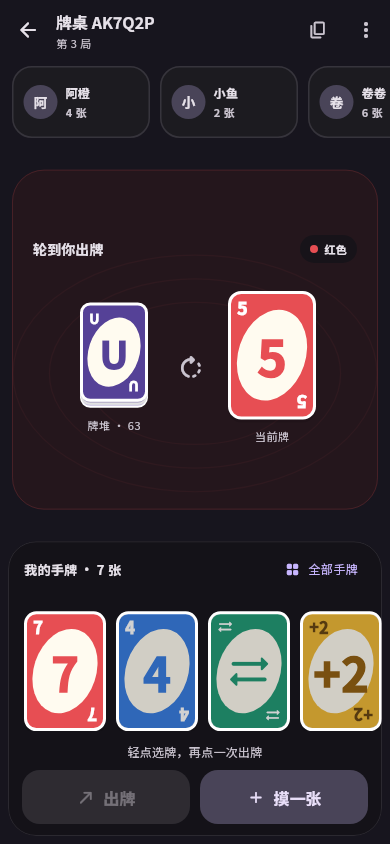
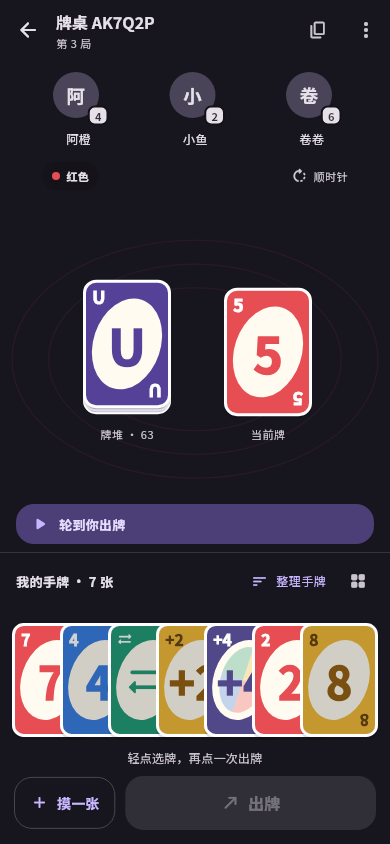
docs: refresh table layout previews and acceptance checks

diff --git a/docs/ui.md b/docs/ui.md
@@ -1,22 +1,30 @@
 # 界面与动画
 
-<img src="images/table-motion.gif" width="280" alt="牌桌交互动效">
-<img src="images/table-dark.png" width="280" alt="深色牌桌">
+<img src="images/table.png" width="250" alt="浅色牌桌">
+<img src="images/table-motion.gif" width="250" alt="整理、选牌和换回合动效">
+<img src="images/table-dark.png" width="250" alt="深色牌桌">
 
 以上预览由 Flutter 界面以离线测试状态渲染。
 
-手牌使用完整显示的横向牌列，牌宽和间距固定，不重叠、不旋转。选中只抬高位置并加描边，
-再次点击或按「出牌」确认。屏幕内的牌不会因选中而横移；从「全部手牌」选到屏幕外的牌时，
-牌列才滚动到相应位置。同一局中保留现有手牌顺序，新摸到的牌追加到末尾。
+布局参考 [Unour 网页端](https://csac.chat/) 的玩家、牌堆和手牌位置关系，
+配色、牌面和控件继续使用应用的 Material You 风格。
 
-牌桌从上至下分为玩家列表、当前牌区、手牌和操作区。玩家列表会滚动到当前出牌者，
-桌面底色随有效颜色变化。小屏采用较小的牌面；较大字体、额外的质疑按钮和 UNO 窗口
-需要更多空间时，可纵向滚动。
+对手头像与剩余牌数排列在顶部，人数少时均匀分布，人数多时横向滚动。
+中央并排放置牌堆和当前牌，颜色与方向放在上方，回合提示放在手牌上方。
+桌面用淡色线条连接各区域，摸牌在左、出牌在右。UNO 按钮浮在中央，避免挤动手牌和操作区。
+
+手牌等距横排，牌面保持竖直、局部重叠；390 宽度下可以同时看到七张牌，
+少量手牌居中，更多手牌横向滚动。选中只抬高并完整露出该牌，不改变牌宽、间距或邻牌位置，
+再次点击或按「出牌」确认。选到屏幕外的牌时，只滚动到能完整看到它的位置。
+同一局中保留原有手牌顺序，新摸到的牌追加到末尾；「整理手牌」按颜色、数字与类型排列，
+并可切回原始顺序。网格按钮打开全部手牌，沿用当前整理方式。
+
+小屏采用较小的牌面；较大字体或额外的过牌、质疑按钮需要更多空间时，可纵向滚动。
 
 ## 动画
 
 - 入口分批淡入、滑入并轻微回弹；按钮按压后回弹。
-- 手牌选中抬起，摸牌滑入，出牌后邻牌平滑补位。
+- 手牌选中抬起，摸牌滑入，出牌后邻牌平滑补位，整理时平滑换位。
 - 当前牌以滑入、缩放和回弹切换；回合、手牌数量和出牌方向分别过渡。
 - 结算播放一次纸屑动画，结束后停止。
 
@@ -26,9 +34,11 @@
 
 ## 验证
 
-组件测试覆盖手牌间距、选中时宽度和位置不变、选中牌不被裁切、状态更新不打乱顺序、
-增减牌、屏幕外选牌、相同牌面不重播、退场牌不可操作，以及减少动态效果。
-布局测试覆盖 320×640、十位玩家、40 张手牌、1.6 倍字体和深浅主题。
+静态检查与 41 项测试通过。组件测试覆盖固定间距、选中时牌宽和邻牌位置不变、
+选中牌不被裁切、状态更新不打乱顺序、增减牌、整理与恢复、屏幕外选牌、相同牌面不重播、
+退场牌不可操作，以及动画途中开启减少动态效果。
+布局测试覆盖七张手牌可见、UNO 不挤动手牌、观战布局，以及 320×640、十位玩家、
+40 张手牌、1.6 倍字体和深浅主题。
 
 另已渲染检查首页、牌桌、选牌、设置、登录、加入牌桌、账户和结算页面。
 真实手机上的流畅度、触摸体验和真实牌局仍按 [验收清单](acceptance.md) 手动检查。

diff --git a/docs/acceptance.md b/docs/acceptance.md
@@ -44,7 +44,9 @@ Android keystore、iOS Team 和签名；开发签名不用于商店发行。
 - [ ] 飞行模式、弱网、请求超时、旧版本冲突、连续点击不重复出牌。
 - [ ] 房间 token 轮换后旧设备重新加入；账户失效要求重新登录。
 - [ ] 320×640 手机、十人房间、40+ 手牌、较大字体、深浅主题。
-- [ ] 手牌整齐横排；选中不改变牌宽、不遮挡邻牌、不让可见牌横移；屏幕外选牌自动滚动。
+- [ ] 手牌固定间距、竖直横排；选中完整露出牌面，不改变牌宽或邻牌位置；屏幕外选牌自动滚动。
+- [ ] 整理手牌按颜色与数字／类型排列，保留选中牌；可恢复原始顺序，全部手牌网格顺序一致。
+- [ ] 对手头像和剩余牌数清楚，多人可横向滚动；UNO 提示不挤动手牌及底部按钮。
 - [ ] 系统减少动态效果、单独关闭音效和轻震动、前后台切换。
 - [ ] 摸牌、出牌、换回合及结算动画流畅；普通状态轮询不重播动画。
 - [ ] Android 安装包真机启动，iOS Xcode 构建及真机启动。
@@ -74,5 +76,8 @@ Android 使用开发签名，无需仓库 secrets；iOS 不使用签名证书。
 同日 UI 改版提交 `a1ec399e32ff0229f541a120192e176861f65638` 的静态检查与 34 项测试
 已通过，Android release APK 已生成。新版双端产物及 iOS 状态见
 [本次手动构建](https://github.com/Leonmmcoset/unour-app/actions/runs/40722603832)。
+
+参照网页端位置关系的牌桌修订 `1df67be` 已通过静态检查与 41 项测试；
+最新布局预览见 [ui.md](ui.md)。上述 Actions 产物属于各自对应的历史提交。
 
 网络错误退出登录时仍会清除本机凭证；服务端撤销是否成功以响应为准。
